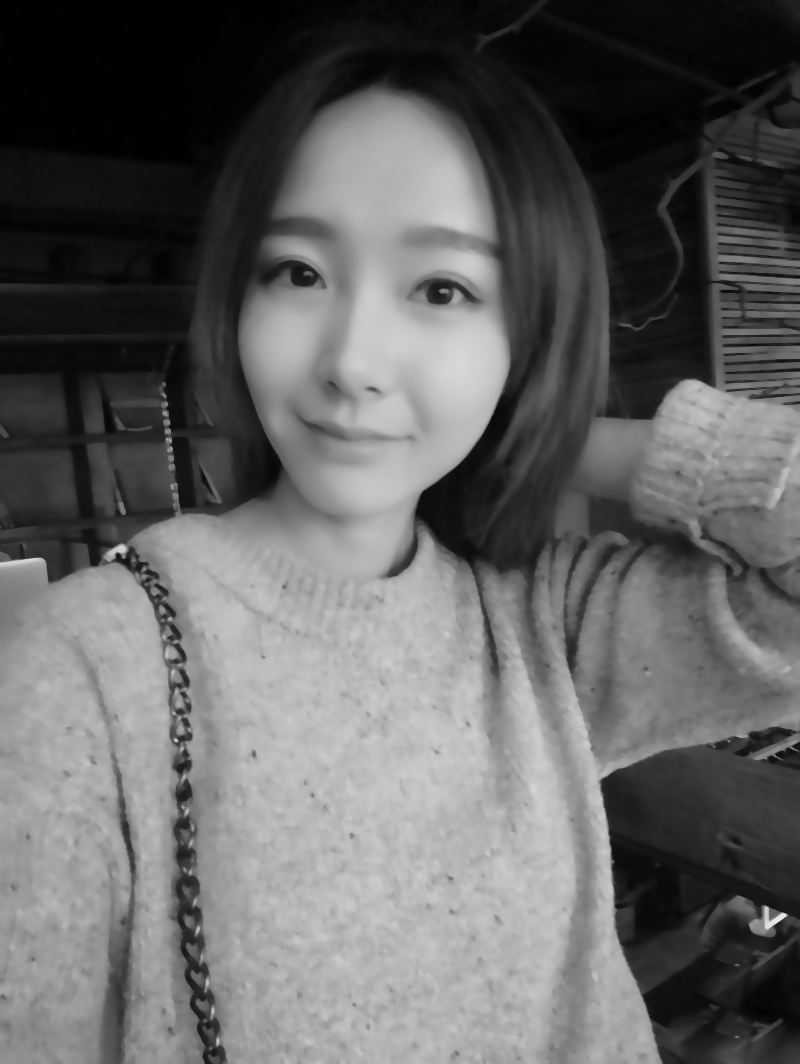
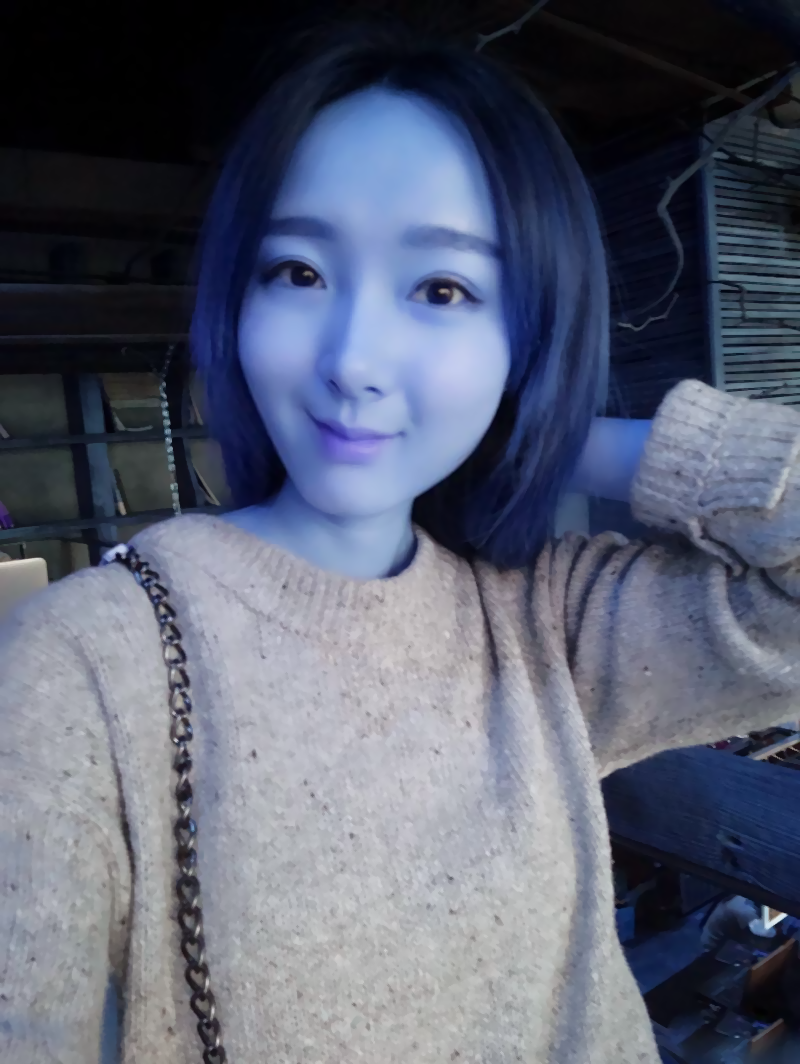
Olaybeauty 增加了双线插值优化

diff --git a/CVwithPy/OlaybeautyCMD0707.py b/CVwithPy/OlaybeautyCMD0707.py
@@ -50,8 +50,14 @@ def beauty(src,dst,center,radius,strength,m_Stride):
                     t=np.ubyte(np.floor(t))
                     dst[j,i]= t
                 else:
-                    dst[j][i] = 0
-                    #dst[j][i] = src[int(posY)][int(posX)]
+                    #dst[j][i] = 0
+                    dst[j][i] = src[int(posY)][int(posX)]
+
+def Whitize(src):
+    i=j=0
+    for i in range(src.shape[0:1]):
+        for j in range(src.shape.pop[0:1]):
+            print (j,i)
 
 #parameters from cmd
 #fileName,imgName,para1,para2,para3,para4,para5,para6=sys.argv
@@ -62,8 +68,8 @@ para1 = 260
 para2 = 430
 para3 = 460
 para4 = 460
-para5 = 30
-para6 = -30
+para5 = 90
+para6 = 30
 
 im = cv2.imread(imgName)
 origin = cv2.imread(imgName)
@@ -76,6 +82,8 @@ beauty(src,dst,center1,para5,para6,2)
 center2=(int(para3),int(para4))
 src = dst.copy()
 beauty(dst,src,center2,para5,para6,2)
+
+Whitize(dst)
 #blur
 kernel = np.ones((1,1),np.float32)/1
 dst = cv2.filter2D(src,-1,kernel)
